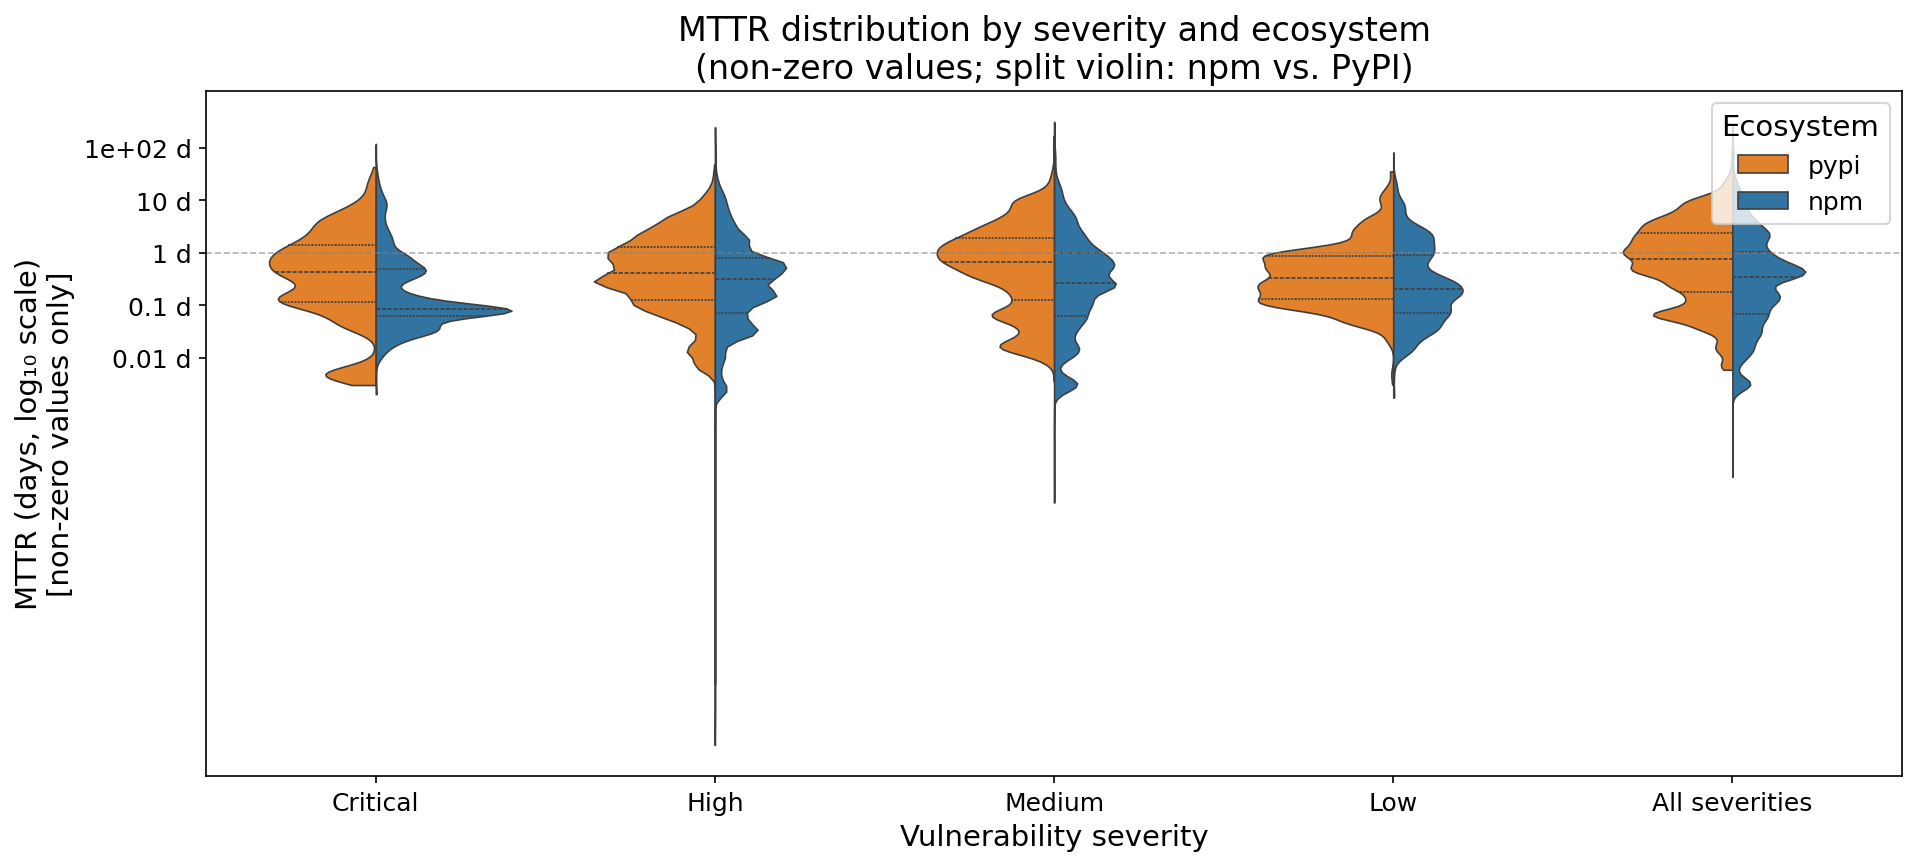
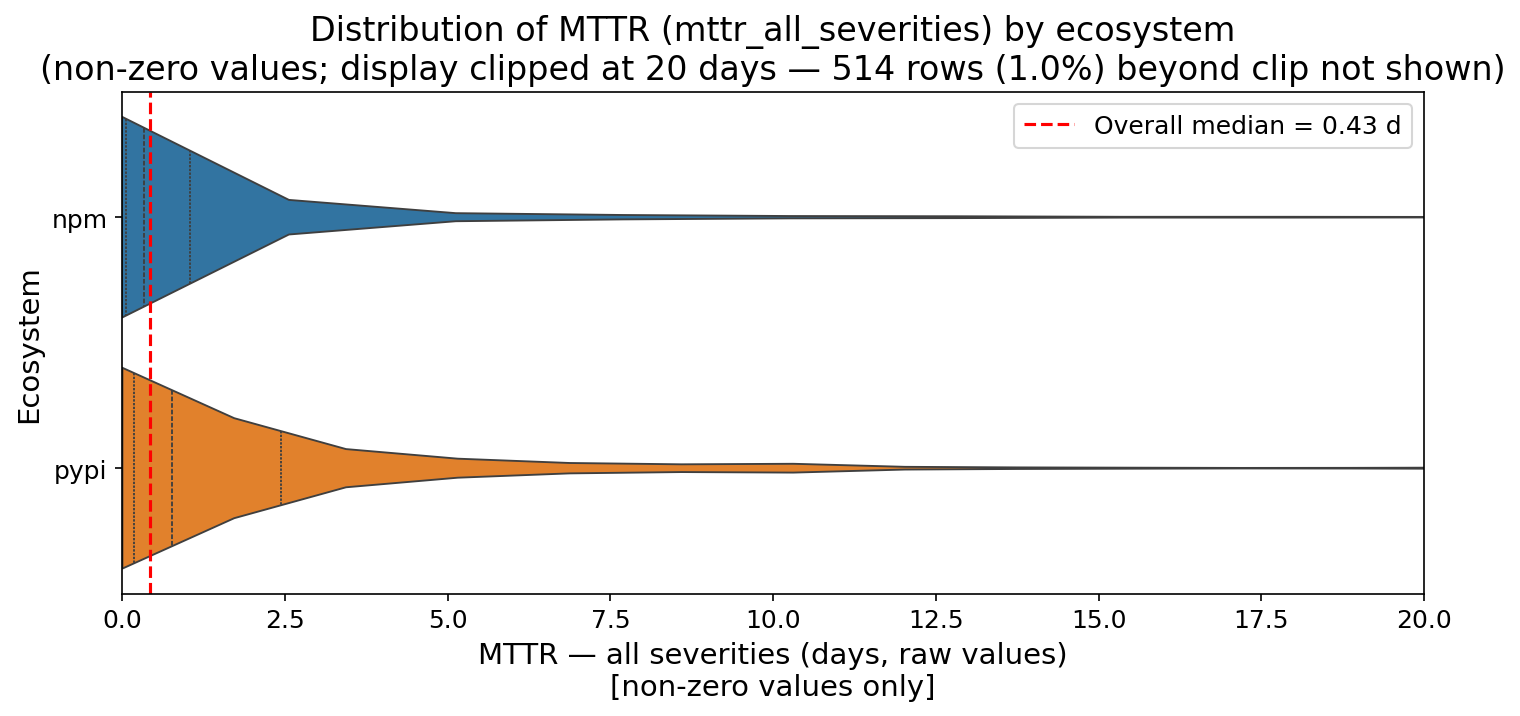
Redesign fig6: horizontal violin of mttr_all_severities, raw values, by ecosystem

diff --git a/code/professor_summary/00_generate_summary.py b/code/professor_summary/00_generate_summary.py
@@ -280,38 +280,38 @@ plt.close(fig)
 print("  saved fig5_mttr_by_severity.png")
 
 # ═══════════════════════════════════════════════════════════════════════════════
-# Fig 6 — Violin plot of MTTR values (nonzero only) by severity + ecosystem
+# Fig 6 — Horizontal violin plot of mttr_all_severities (nonzero, raw values)
+#          split by ecosystem
 # ═══════════════════════════════════════════════════════════════════════════════
 print("Fig 6: MTTR violin plot …")
 
 import seaborn as sns
 
-sev_order = ["mttr_critical", "mttr_high", "mttr_medium", "mttr_low", "mttr_all_severities"]
-sev_labels_short = ["Critical", "High", "Medium", "Low", "All severities"]
+CLIP_DAYS = 20   # p99 ≈ 19.7 days; clip display here, annotate outliers
 
-violin_rows = []
-for col, label in zip(sev_order, sev_labels_short):
-    sub = df[df[col] > 0][["ecosystem", col]].copy()
-    sub["severity"] = label
-    sub["log_mttr"] = np.log10(sub[col])
-    violin_rows.append(sub[["ecosystem", "severity", "log_mttr"]])
-vdf = pd.concat(violin_rows, ignore_index=True)
+vdf = df[df["mttr_all_severities"] > 0][["ecosystem", "mttr_all_severities"]].copy()
+n_clipped = int((vdf["mttr_all_severities"] > CLIP_DAYS).sum())
+pct_clipped = n_clipped / len(vdf) * 100
 
-fig, ax = plt.subplots(figsize=(13, 6))
+fig, ax = plt.subplots(figsize=(10, 5))
 sns.violinplot(
-    data=vdf, x="severity", y="log_mttr", hue="ecosystem",
-    order=sev_labels_short, split=True, inner="quartile",
+    data=vdf, x="mttr_all_severities", y="ecosystem",
+    order=["npm", "pypi"],
     palette={"npm": "#1f77b4", "pypi": "#ff7f0e"},
-    ax=ax, cut=0, linewidth=0.8,
+    inner="quartile", cut=0, linewidth=0.9,
+    ax=ax,
 )
-yticks = [-2, -1, 0, 1, 2]
-ax.set_yticks(yticks)
-ax.set_yticklabels([f"{10**t:.2g} d" for t in yticks])
-ax.set_xlabel("Vulnerability severity")
-ax.set_ylabel("MTTR (days, log₁₀ scale)\n[non-zero values only]")
-ax.set_title("MTTR distribution by severity and ecosystem\n(non-zero values; split violin: npm vs. PyPI)")
-ax.legend(title="Ecosystem", loc="upper right")
-ax.axhline(0, color="gray", linestyle="--", linewidth=0.8, alpha=0.6)
+ax.set_xlim(0, CLIP_DAYS)
+ax.set_xlabel("MTTR — all severities (days, raw values)\n[non-zero values only]")
+ax.set_ylabel("Ecosystem")
+ax.set_title(
+    "Distribution of MTTR (mttr_all_severities) by ecosystem\n"
+    f"(non-zero values; display clipped at {CLIP_DAYS} days — "
+    f"{n_clipped:,} rows ({pct_clipped:.1f}%) beyond clip not shown)"
+)
+ax.axvline(vdf["mttr_all_severities"].median(), color="red", linestyle="--",
+           linewidth=1.5, label=f"Overall median = {vdf['mttr_all_severities'].median():.2f} d")
+ax.legend(loc="upper right")
 fig.tight_layout()
 fig.savefig(OUT_DIR / "fig6_mttr_violin.png", bbox_inches="tight")
 plt.close(fig)
